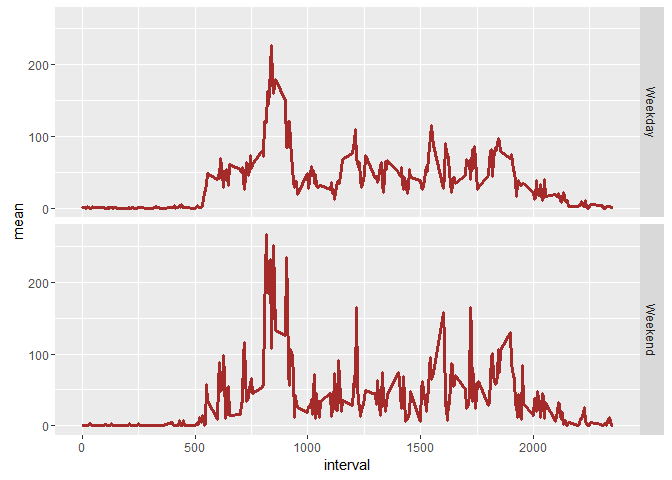
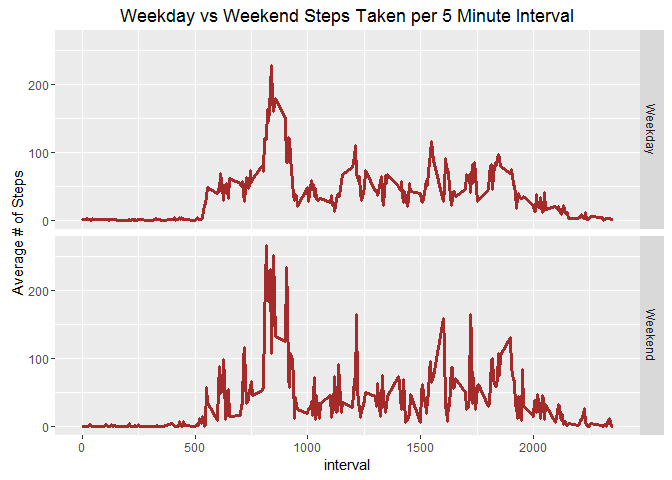
Added labels and fixed typos

diff --git a/PA1_template.html b/PA1_template.html
@@ -185,8 +185,8 @@ Average_byDay &lt;- rbind(AverageWeekdaySteps, AverageWeekendSteps)
 Day &lt;- as.factor(c(rep(&quot;Weekday&quot;, nrow(AverageWeekdaySteps)), rep(&quot;Weekend&quot;, nrow(AverageWeekendSteps))))
 Average_byDay &lt;- cbind(Average_byDay, Day)</code></pre>
 <p>Then, I perform the same time series as before, but this time with two lines, one for weekdays, and one for weekends. The README file example suggests putting the two time series graphs on the same grid with two panels. In ggplot, this is done with the facet_grid() function.</p>
-<pre class="r"><code>ggplot(Average_byDay, aes(interval, mean)) + geom_line(size = 1.2, color = &quot;brown&quot;) + facet_grid(Day~.)</code></pre>
[1 lines of base64/hex data omitted]
+<pre class="r"><code>ggplot(Average_byDay, aes(interval, mean)) + geom_line(size = 1.2, color = &quot;brown&quot;) + facet_grid(Day~.) + labs(x= &quot;interval&quot;, y = &quot;Average # of Steps&quot;, title= &quot;Weekday vs Weekend Steps Taken per 5 Minute Interval&quot;)</code></pre>
[1 lines of base64/hex data omitted]
 </div>
 
 

diff --git a/PA1_template.md b/PA1_template.md
@@ -238,7 +238,7 @@ Then, I perform the same time series as before, but this time with two lines, on
 
 
 ```r
-ggplot(Average_byDay, aes(interval, mean)) + geom_line(size = 1.2, color = "brown") + facet_grid(Day~.)
+ggplot(Average_byDay, aes(interval, mean)) + geom_line(size = 1.2, color = "brown") + facet_grid(Day~.) + labs(x= "interval", y = "Average # of Steps", title= "Weekday vs Weekend Steps Taken per 5 Minute Interval")
 ```
 
 ![](PA1_template_files/figure-html/unnamed-chunk-16-1.png) 
